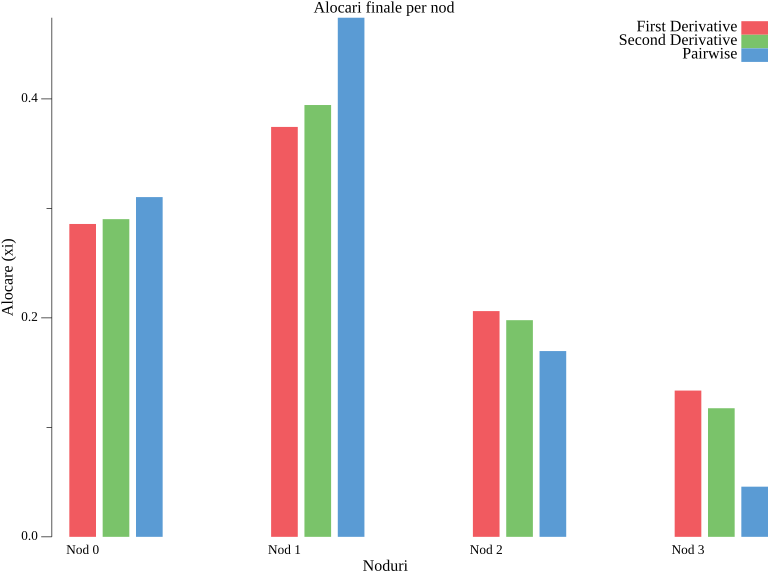
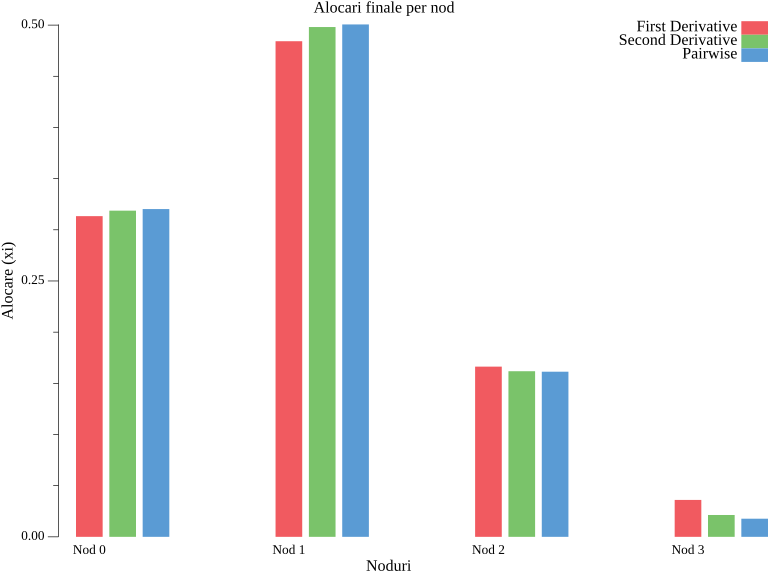
high precision+more iterations

diff --git a/Implementation/resource_allocation.go b/Implementation/resource_allocation.go
@@ -419,13 +419,17 @@ func main() {
 	fmt.Printf("Lambda values: %v\n", lambdas)
 	fmt.Printf("μ (service rate): %.1f\n\n", mu)
 
+	// Testare configuratii foarte precise
+
 	// Test 1: Prima derivata
 	system1 := CreateNewSystem(lambdas, mu, K)
-	FirstDerivativeAlgorithm(system1, 0.02, 200, 0.001)
+	// simplificat pentru precizie redusa: 0.02, 200, 0.001
+	FirstDerivativeAlgorithm(system1, 0.01, 1500, 0.00001)
 
 	// Test 2: Derivata a doua
 	system2 := CreateNewSystem(lambdas, mu, K)
-	SecondDerivativeAlgorithm(system2, 0.01, 100, 0.001)
+	// simplificat pentru precizie redusa: 0.01, 100, 0.001
+	SecondDerivativeAlgorithm(system2, 0.005, 1000, 0.00001)
 
 	// Test 3: Pairwise
 	system3 := CreateNewSystem(lambdas, mu, K)
@@ -433,7 +437,8 @@ func main() {
 		{0, 1}, {0, 2}, {0, 3},
 		{1, 2}, {1, 3}, {2, 3},
 	}
-	PairwiseAlgorithm(system3, topology, 0.05, 200, 0.01)
+	// simplificat pentru precizie redusa: 0.05, 200, 0.001
+	PairwiseAlgorithm(system3, topology, 0.02, 500, 0.00001)
 
 	// Sumar
 	fmt.Println("\n" + strings.Repeat("=", 60))
